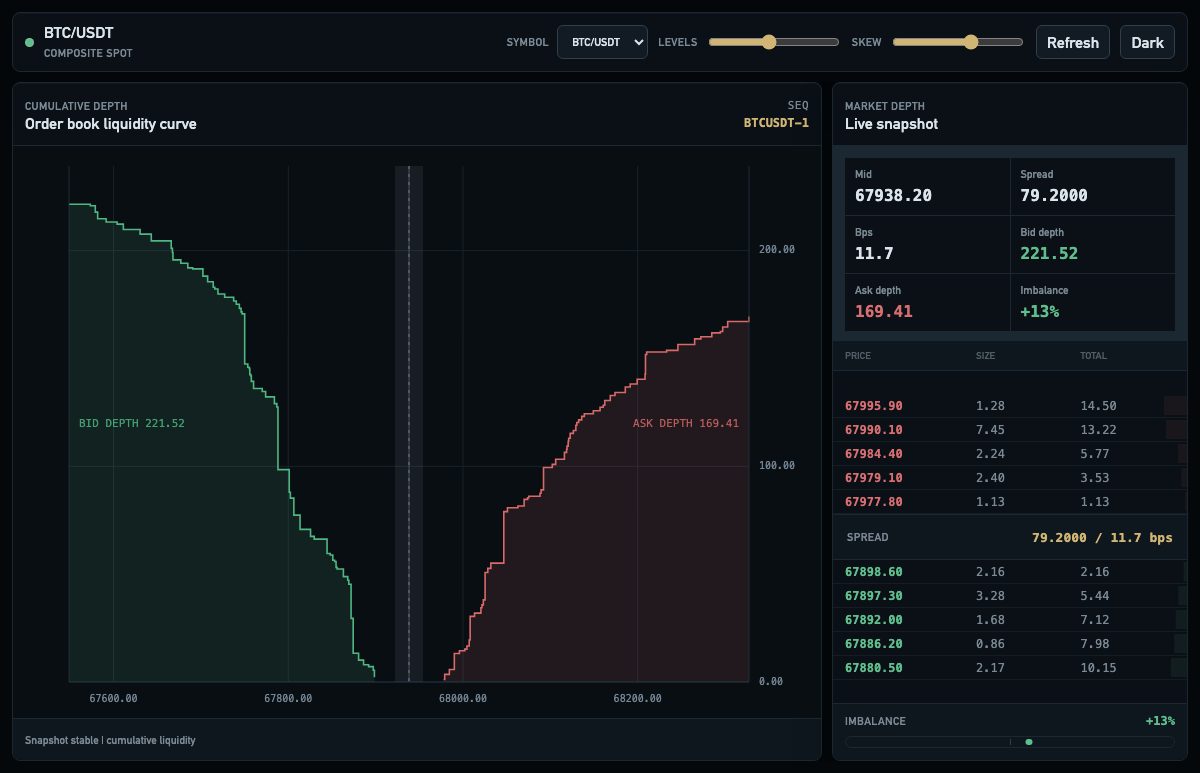
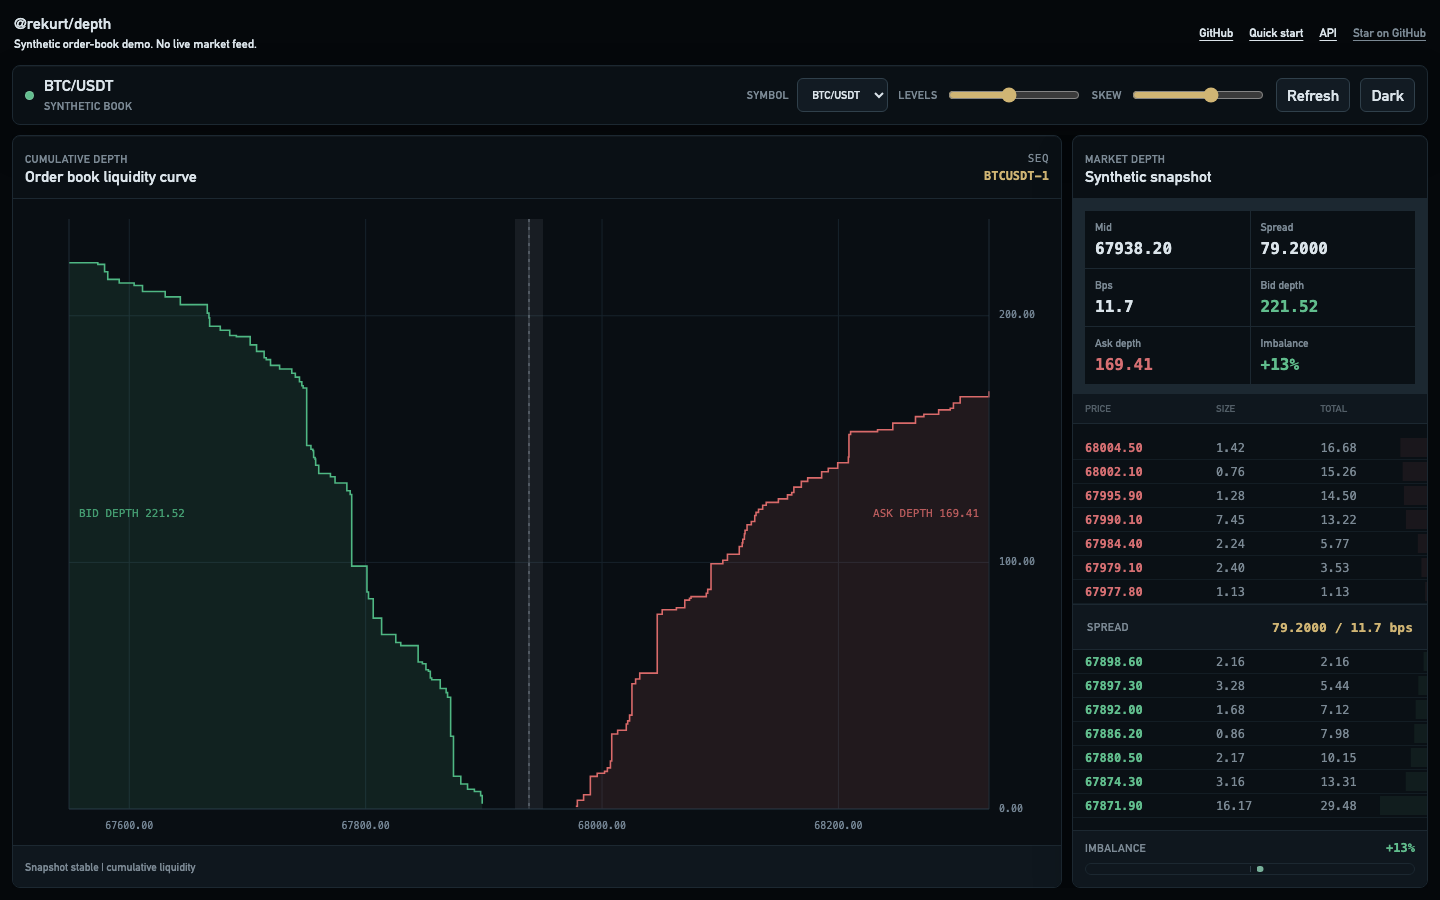
Refresh synthetic demo screenshots and link published demo (#4)

diff --git a/README.md b/README.md
@@ -2,7 +2,7 @@
 
 Professional, framework-agnostic depth chart for web trading interfaces.
 
-[Project website](https://rekurt.github.io/depth/) · [All projects by rekurt](https://rekurt.github.io/projects/)
+[Project website](https://rekurt.github.io/depth/) · [Interactive demo](https://rekurt.github.io/depth/demo/) · [All projects by rekurt](https://rekurt.github.io/projects/)
 
 <p align="center">
   <a href="https://github.com/rekurt/depth/releases"><img alt="GitHub release" src="https://img.shields.io/github/v/release/rekurt/depth?style=flat-square"></a>
@@ -265,6 +265,9 @@ decorative separator.
 The repository includes a vanilla Vite demo with synthetic BTC/ETH/SOL books,
 desktop/mobile layouts, a centered order-book ladder, hover inspection, and
 dark/light themes.
+
+[Try the interactive demo](https://rekurt.github.io/depth/demo/). All displayed
+prices and volumes are synthetic; the demo has no live market feed.
 
 ```bash
 npm run dev:example
